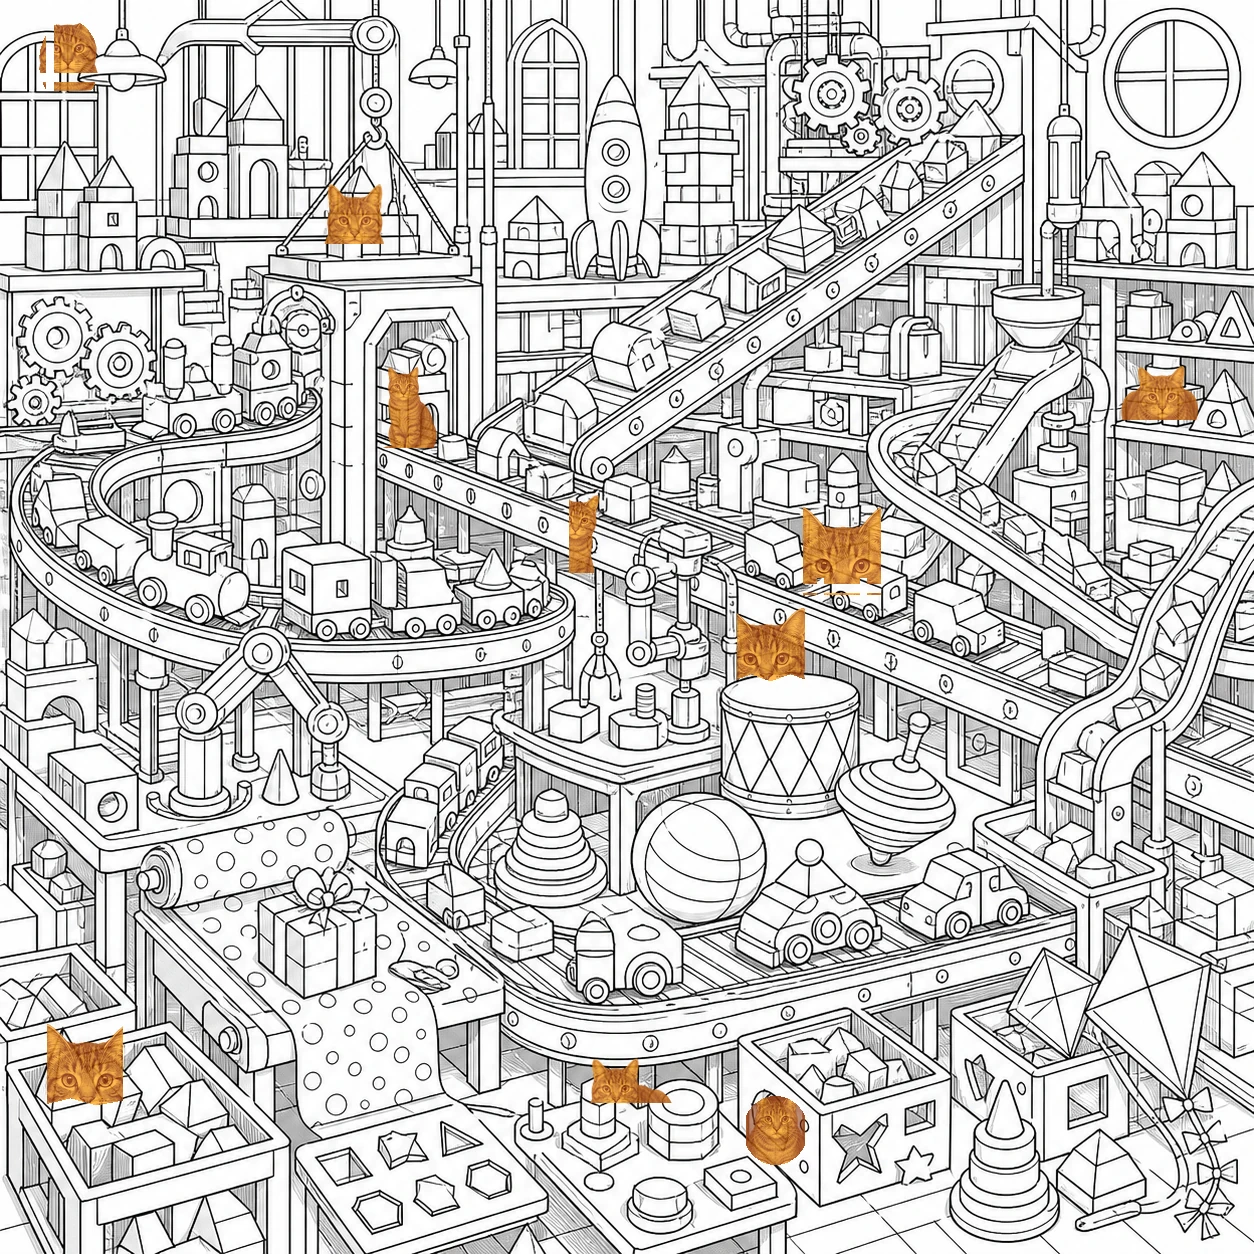
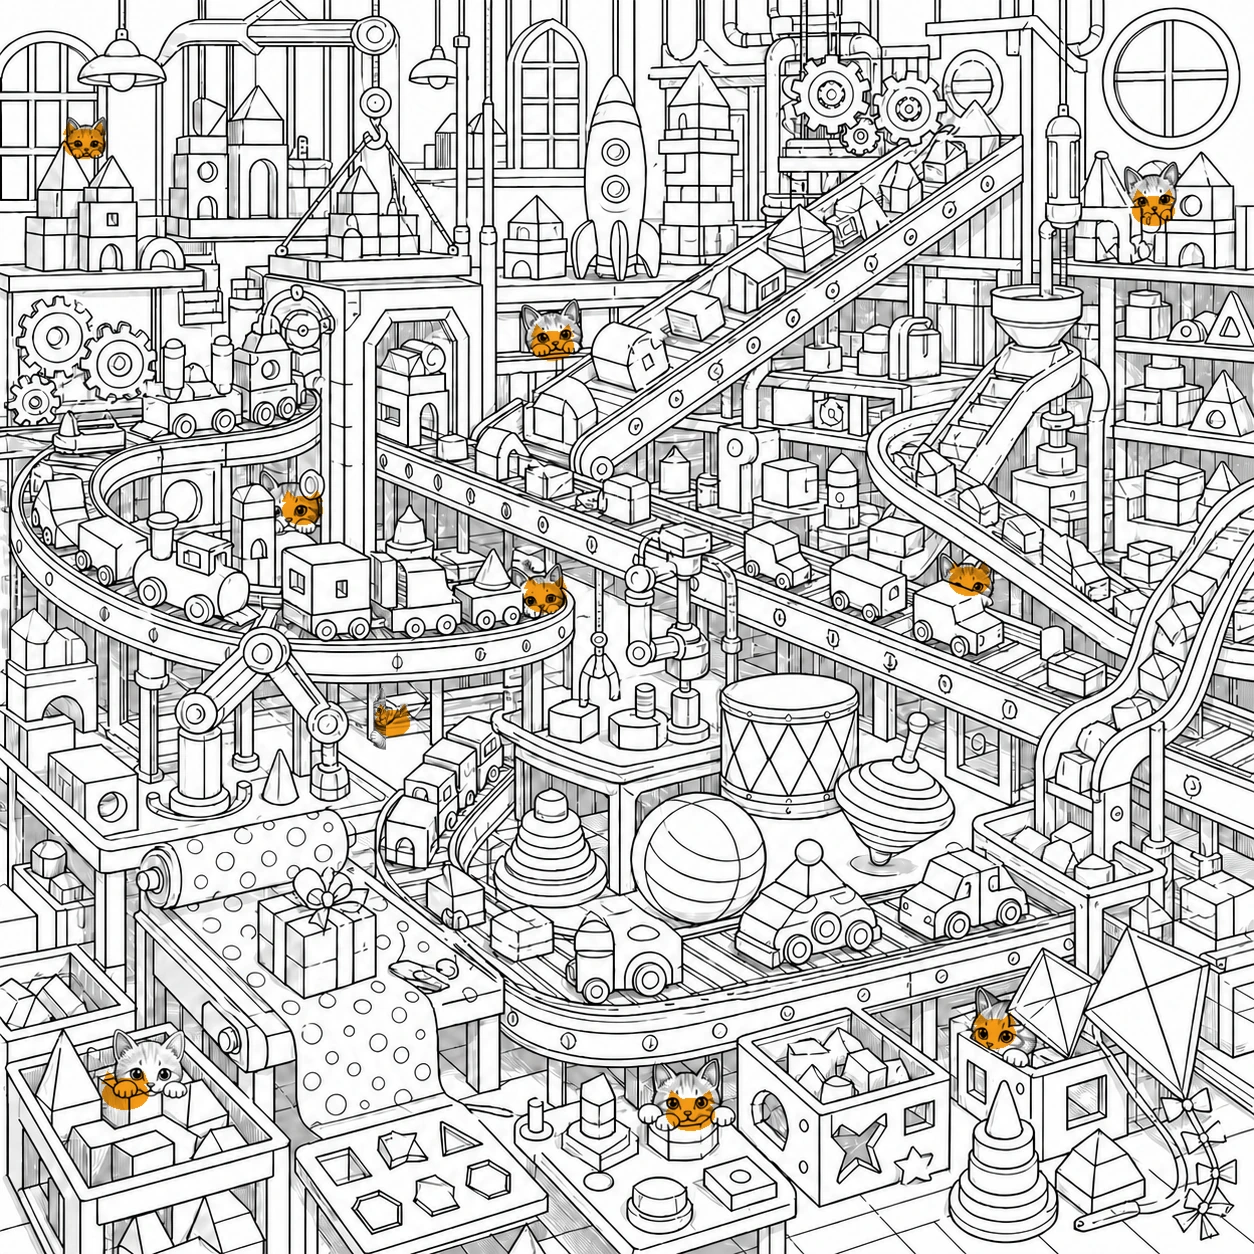
Rebuild review levels 59 to 63

Changed region(s): [[0.0, 0.0, 1.0, 1.0]]

diff --git a/app.js b/app.js
@@ -130,8 +130,19 @@ const levelCatalog = [
   ,{ file: "next-19", name: "Lunar Control Laboratory", isColor: true, cats: [{"x":0.116,"y":0.11,"hitX":0.0387,"hitY":0.0383,"clipX":0.0337,"clipY":0.0333},{"x":0.3413,"y":0.0957,"hitX":0.0399,"hitY":0.0375,"clipX":0.0349,"clipY":0.0325},{"x":0.6077,"y":0.1128,"hitX":0.035,"hitY":0.0419,"clipX":0.03,"clipY":0.0369},{"x":0.8612,"y":0.1248,"hitX":0.0447,"hitY":0.035,"clipX":0.0397,"clipY":0.03},{"x":0.1176,"y":0.3122,"hitX":0.0515,"hitY":0.0363,"clipX":0.0465,"clipY":0.0313},{"x":0.3904,"y":0.3305,"hitX":0.035,"hitY":0.0435,"clipX":0.03,"clipY":0.0385},{"x":0.6595,"y":0.3469,"hitX":0.0519,"hitY":0.0479,"clipX":0.0469,"clipY":0.0429},{"x":0.8589,"y":0.4745,"hitX":0.0471,"hitY":0.0351,"clipX":0.0421,"clipY":0.0301},{"x":0.2388,"y":0.6938,"hitX":0.0355,"hitY":0.0471,"clipX":0.0305,"clipY":0.0421},{"x":0.6862,"y":0.7755,"hitX":0.0483,"hitY":0.0355,"clipX":0.0433,"clipY":0.0305}] }
   ,{ file: "next-20", name: "Lantern Bazaar", isColor: true, cats: [{"x":0.116,"y":0.11,"hitX":0.0387,"hitY":0.0383,"clipX":0.0337,"clipY":0.0333},{"x":0.3413,"y":0.0957,"hitX":0.0399,"hitY":0.0375,"clipX":0.0349,"clipY":0.0325},{"x":0.6077,"y":0.1128,"hitX":0.035,"hitY":0.0419,"clipX":0.03,"clipY":0.0369},{"x":0.8612,"y":0.1248,"hitX":0.0447,"hitY":0.035,"clipX":0.0397,"clipY":0.03},{"x":0.1176,"y":0.3122,"hitX":0.0515,"hitY":0.0363,"clipX":0.0465,"clipY":0.0313},{"x":0.3904,"y":0.3305,"hitX":0.035,"hitY":0.0435,"clipX":0.03,"clipY":0.0385},{"x":0.6595,"y":0.3469,"hitX":0.0519,"hitY":0.0479,"clipX":0.0469,"clipY":0.0429},{"x":0.8589,"y":0.4745,"hitX":0.0471,"hitY":0.0351,"clipX":0.0421,"clipY":0.0301},{"x":0.2388,"y":0.6938,"hitX":0.0355,"hitY":0.0471,"clipX":0.0305,"clipY":0.0421},{"x":0.6862,"y":0.7755,"hitX":0.0483,"hitY":0.0355,"clipX":0.0433,"clipY":0.0305}] }
 ].map(level => {
-  const assetVersion = ["next-01", "next-02", "next-03"].includes(level.file) ? "?v=reviewed-56-58-v1" : "";
+  const assetVersion = ["next-01", "next-02", "next-03", "next-04", "next-05", "next-06", "next-07", "next-08"].includes(level.file) ? "?v=reviewed-56-63-v2" : "";
   return { ...level, image: `assets/levels/${level.file}.webp${assetVersion}`, answer: `assets/levels/${level.file}-answer.webp${assetVersion}` };
+});
+
+const REVIEWED_CATS_59_63 = {
+  "next-04": [{"x":0.0455,"y":0.2528,"hitX":0.04,"hitY":0.04,"clipX":0.0303,"clipY":0.0271},{"x":0.311,"y":0.2185,"hitX":0.04,"hitY":0.04,"clipX":0.0319,"clipY":0.0271},{"x":0.7313,"y":0.1587,"hitX":0.04,"hitY":0.04,"clipX":0.0303,"clipY":0.0271},{"x":0.701,"y":0.5925,"hitX":0.04,"hitY":0.04,"clipX":0.0303,"clipY":0.0271},{"x":0.7982,"y":0.6515,"hitX":0.04,"hitY":0.04,"clipX":0.0335,"clipY":0.0287},{"x":0.925,"y":0.6491,"hitX":0.04,"hitY":0.04,"clipX":0.0335,"clipY":0.0287},{"x":0.5423,"y":0.6842,"hitX":0.04,"hitY":0.04,"clipX":0.0271,"clipY":0.0255},{"x":0.4848,"y":0.7895,"hitX":0.04,"hitY":0.04,"clipX":0.0335,"clipY":0.0287},{"x":0.6954,"y":0.7839,"hitX":0.04,"hitY":0.04,"clipX":0.0271,"clipY":0.0255},{"x":0.697,"y":0.9729,"hitX":0.04,"hitY":0.04,"clipX":0.0335,"clipY":0.0271}],
+  "next-05": [{"x":0.067,"y":0.1116,"hitX":0.04,"hitY":0.04,"clipX":0.0335,"clipY":0.0287},{"x":0.9195,"y":0.1651,"hitX":0.04,"hitY":0.04,"clipX":0.0335,"clipY":0.0287},{"x":0.4402,"y":0.2727,"hitX":0.04,"hitY":0.04,"clipX":0.0335,"clipY":0.0287},{"x":0.2408,"y":0.4043,"hitX":0.04,"hitY":0.04,"clipX":0.0319,"clipY":0.0271},{"x":0.4346,"y":0.4737,"hitX":0.04,"hitY":0.04,"clipX":0.0335,"clipY":0.0287},{"x":0.7727,"y":0.4609,"hitX":0.04,"hitY":0.04,"clipX":0.0319,"clipY":0.0271},{"x":0.0997,"y":0.8692,"hitX":0.04,"hitY":0.04,"clipX":0.0367,"clipY":0.0303},{"x":0.5502,"y":0.8852,"hitX":0.04,"hitY":0.04,"clipX":0.0383,"clipY":0.0319},{"x":0.7927,"y":0.8214,"hitX":0.04,"hitY":0.04,"clipX":0.0335,"clipY":0.0287},{"x":0.3126,"y":0.5742,"hitX":0.04,"hitY":0.04,"clipX":0.0271,"clipY":0.0255}],
+  "next-06": [{"x":0.0766,"y":0.1411,"hitX":0.04,"hitY":0.04,"clipX":0.0319,"clipY":0.0271},{"x":0.4992,"y":0.138,"hitX":0.04,"hitY":0.04,"clipX":0.0303,"clipY":0.0271},{"x":0.8174,"y":0.2265,"hitX":0.04,"hitY":0.04,"clipX":0.0335,"clipY":0.0287},{"x":0.9713,"y":0.3166,"hitX":0.04,"hitY":0.04,"clipX":0.0287,"clipY":0.0255},{"x":0.3644,"y":0.4729,"hitX":0.04,"hitY":0.04,"clipX":0.0287,"clipY":0.0255},{"x":0.1938,"y":0.5128,"hitX":0.04,"hitY":0.04,"clipX":0.0335,"clipY":0.0287},{"x":0.8573,"y":0.4968,"hitX":0.04,"hitY":0.04,"clipX":0.0351,"clipY":0.0303},{"x":0.0781,"y":0.8214,"hitX":0.04,"hitY":0.04,"clipX":0.0335,"clipY":0.0287},{"x":0.2297,"y":0.9187,"hitX":0.04,"hitY":0.04,"clipX":0.0367,"clipY":0.0303},{"x":0.5359,"y":0.9163,"hitX":0.04,"hitY":0.04,"clipX":0.0383,"clipY":0.0319}],
+  "next-07": [{"x":0.1132,"y":0.1228,"hitX":0.04,"hitY":0.04,"clipX":0.0319,"clipY":0.0271},{"x":0.4163,"y":0.1539,"hitX":0.04,"hitY":0.04,"clipX":0.0335,"clipY":0.0287},{"x":0.8437,"y":0.3301,"hitX":0.04,"hitY":0.04,"clipX":0.0335,"clipY":0.0287},{"x":0.1523,"y":0.5207,"hitX":0.04,"hitY":0.04,"clipX":0.0335,"clipY":0.0287},{"x":0.4705,"y":0.547,"hitX":0.04,"hitY":0.04,"clipX":0.0319,"clipY":0.0271},{"x":0.6483,"y":0.571,"hitX":0.04,"hitY":0.04,"clipX":0.0319,"clipY":0.0271},{"x":0.5359,"y":0.7512,"hitX":0.04,"hitY":0.04,"clipX":0.0367,"clipY":0.0303},{"x":0.3437,"y":0.9011,"hitX":0.04,"hitY":0.04,"clipX":0.0351,"clipY":0.0303},{"x":0.8341,"y":0.8772,"hitX":0.04,"hitY":0.04,"clipX":0.0335,"clipY":0.0287},{"x":0.2584,"y":0.7974,"hitX":0.04,"hitY":0.04,"clipX":0.0303,"clipY":0.0271}],
+  "next-08": [{"x":0.453,"y":0.0917,"hitX":0.04,"hitY":0.04,"clipX":0.0335,"clipY":0.0287},{"x":0.1826,"y":0.1555,"hitX":0.04,"hitY":0.04,"clipX":0.0303,"clipY":0.0271},{"x":0.8836,"y":0.189,"hitX":0.04,"hitY":0.04,"clipX":0.0303,"clipY":0.0271},{"x":0.9147,"y":0.5183,"hitX":0.04,"hitY":0.04,"clipX":0.0335,"clipY":0.0287},{"x":0.4952,"y":0.6021,"hitX":0.04,"hitY":0.04,"clipX":0.0303,"clipY":0.0271},{"x":0.0638,"y":0.6715,"hitX":0.04,"hitY":0.04,"clipX":0.0335,"clipY":0.0287},{"x":0.3708,"y":0.6738,"hitX":0.04,"hitY":0.04,"clipX":0.0335,"clipY":0.0287},{"x":0.7663,"y":0.6722,"hitX":0.04,"hitY":0.04,"clipX":0.0335,"clipY":0.0287},{"x":0.1268,"y":0.8764,"hitX":0.04,"hitY":0.04,"clipX":0.0367,"clipY":0.0303},{"x":0.7041,"y":0.9131,"hitX":0.04,"hitY":0.04,"clipX":0.0303,"clipY":0.0271}]
+};
+levelCatalog.forEach(level => {
+  if (REVIEWED_CATS_59_63[level.file]) level.cats = REVIEWED_CATS_59_63[level.file];
 });
 
 // Fixed shuffle: varied on first load, stable across refreshes so saved progress stays meaningful.

diff --git a/index.html b/index.html
@@ -100,6 +100,6 @@
       </section>
     </div>
 
-    <script src="app.js?v=reviewed-56-58-v16"></script>
+    <script src="app.js?v=reviewed-56-63-v17"></script>
   </body>
 </html>

diff --git a/PROJECT_STATUS.md b/PROJECT_STATUS.md
@@ -154,6 +154,15 @@ review the 75-level catalog before doing more expansion.
 - Acceptance reference: the friendly cat treatment in early levels, especially
   levels 16, 20, and 26; normal faces with one black pupil per eye.
 
+## Artwork repair batch: levels 59-63
+
+- Status: implemented as an interim review deployment while work continues on
+  levels 64-75.
+- `next-04` through `next-08` now use rebuilt player and orange-answer assets,
+  ten reviewed cat coordinates per level, and a cache-busting asset version.
+- The batch follows the approved level 56-58 standard: varied partial poses,
+  scene-object occlusion, clear faces, and no rectangular pasted-cat layers.
+
 ## Recovery roadmap
 
 1. Define the desired player experience and a small set of puzzle acceptance
